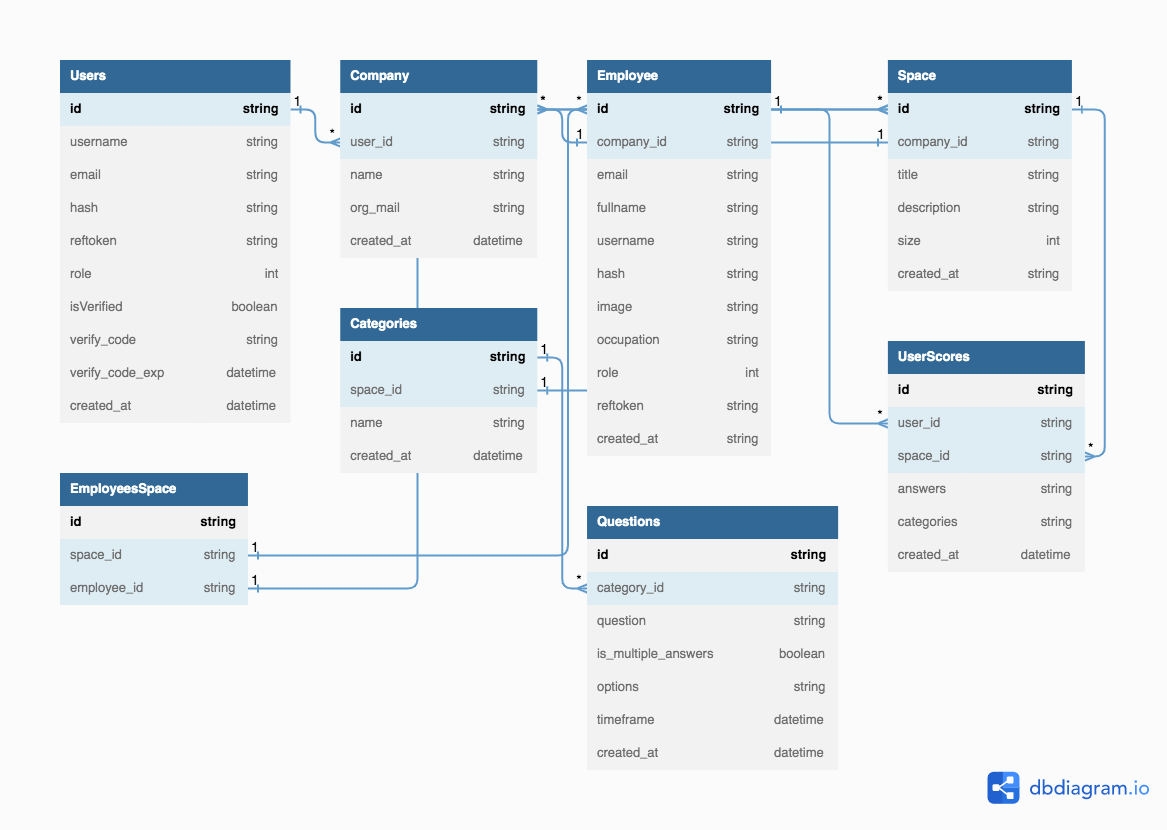
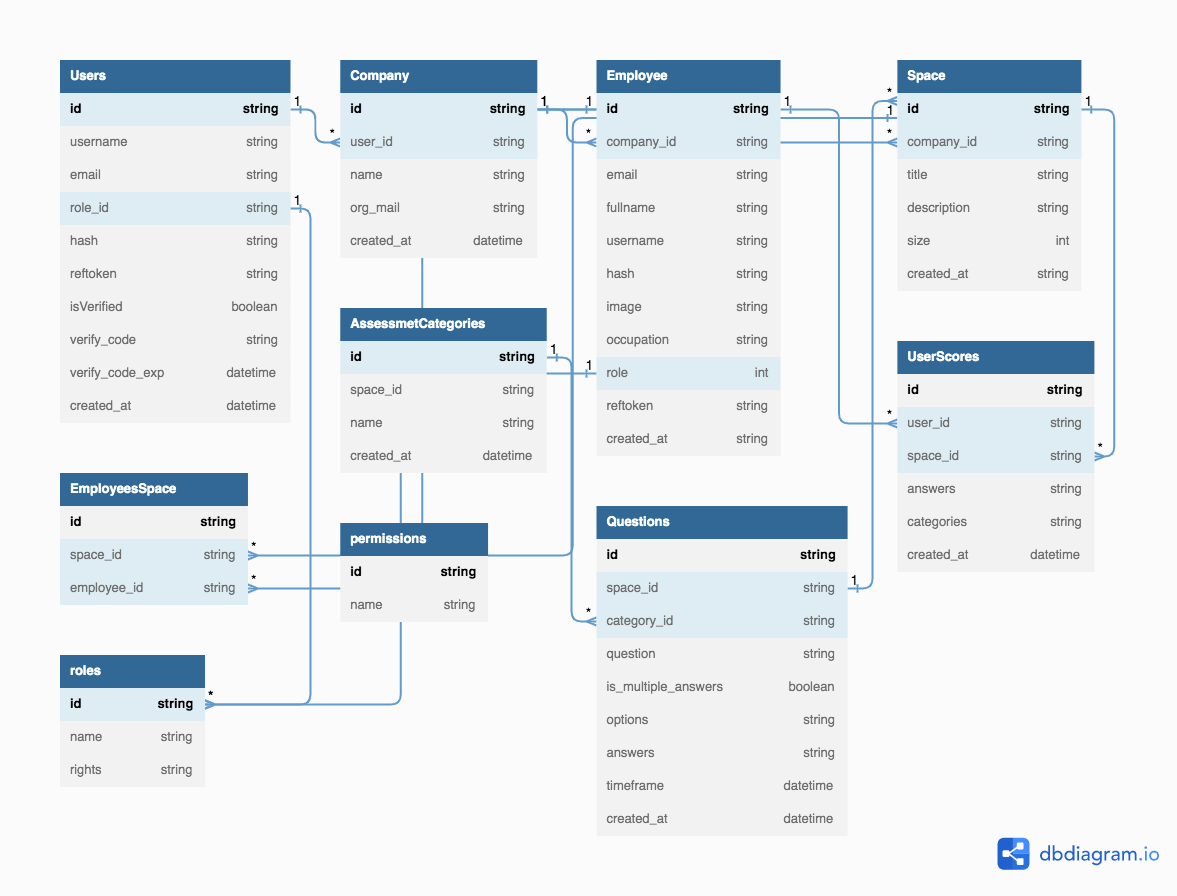
doc: updated readme

diff --git a/360deg_tasks.md b/360deg_tasks.md
@@ -94,7 +94,7 @@ Admin of the system has the feature to add employees to a specific space.. if th
 
 Database Architecture was constructed using the link [Database Architecture](https://dbdiagram.io/d/636cce5fc9abfc611171a876)
 
-![image](https://github.com/Benrobo/hng9-resources/blob/main/Copy%20of%20360deg%20Evaluator%20(1).png?raw=true)
+![image](https://github.com/Benrobo/hng9-resources/blob/main/db_design.png?raw=true)
 
 
 
